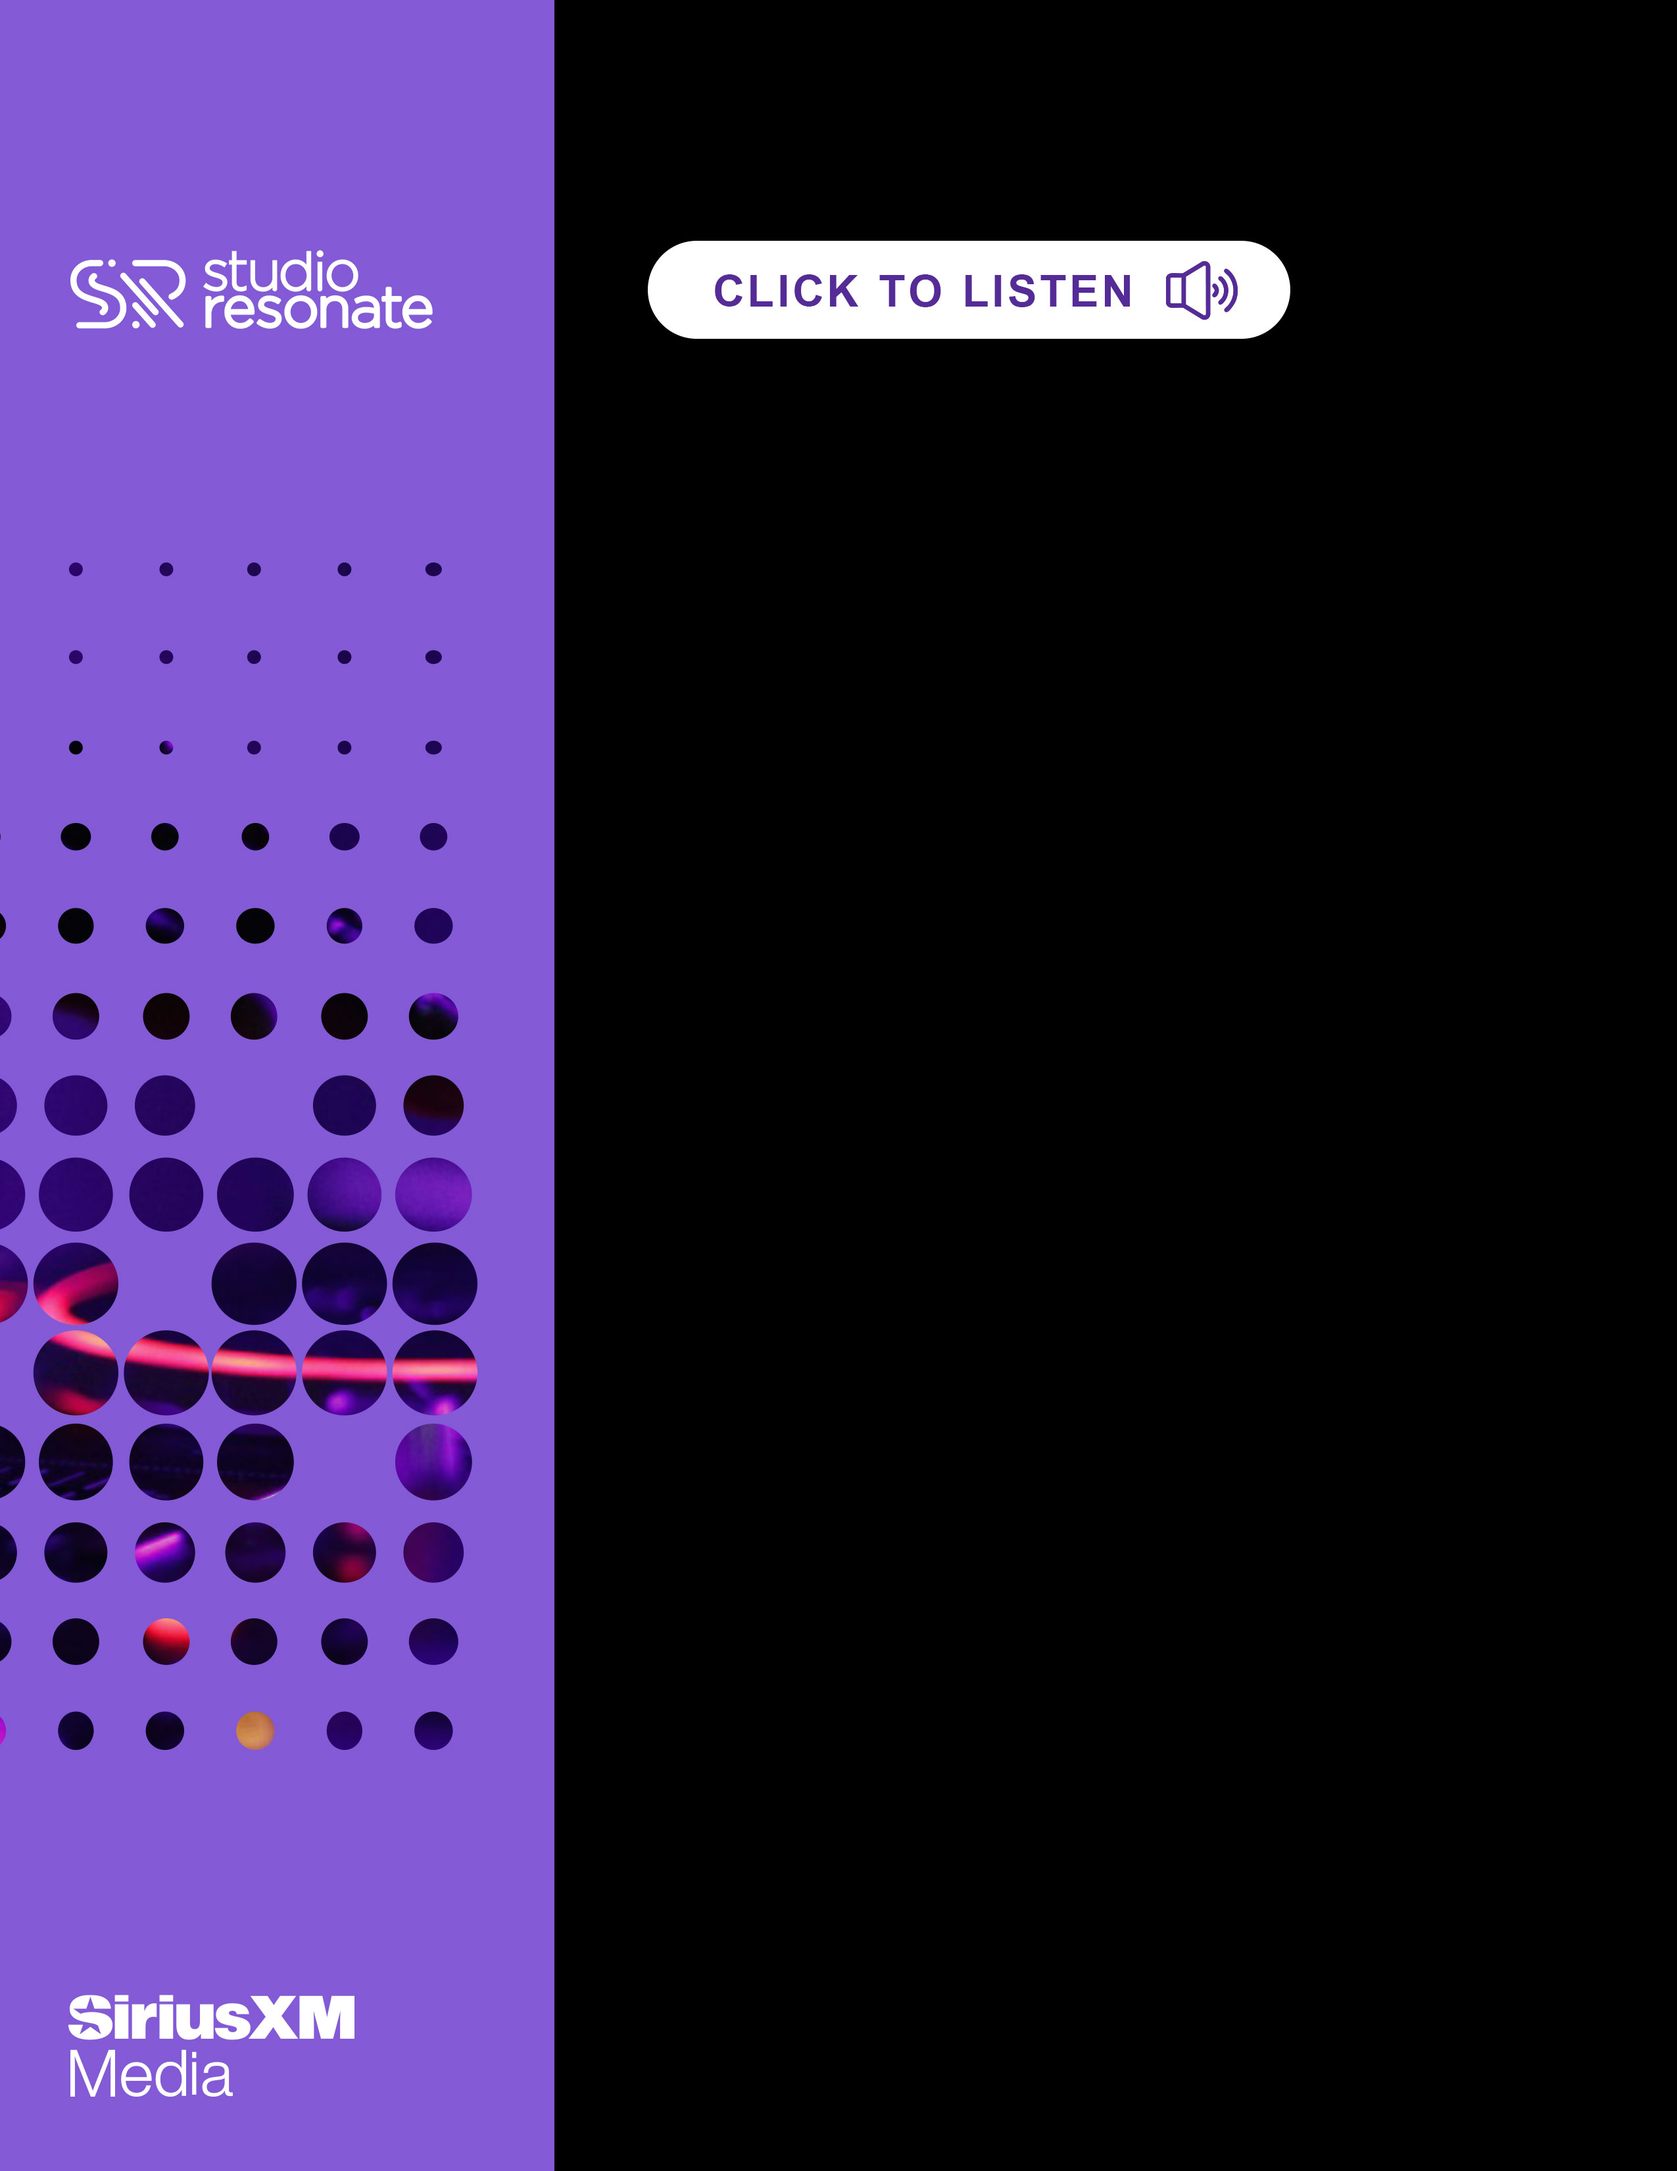
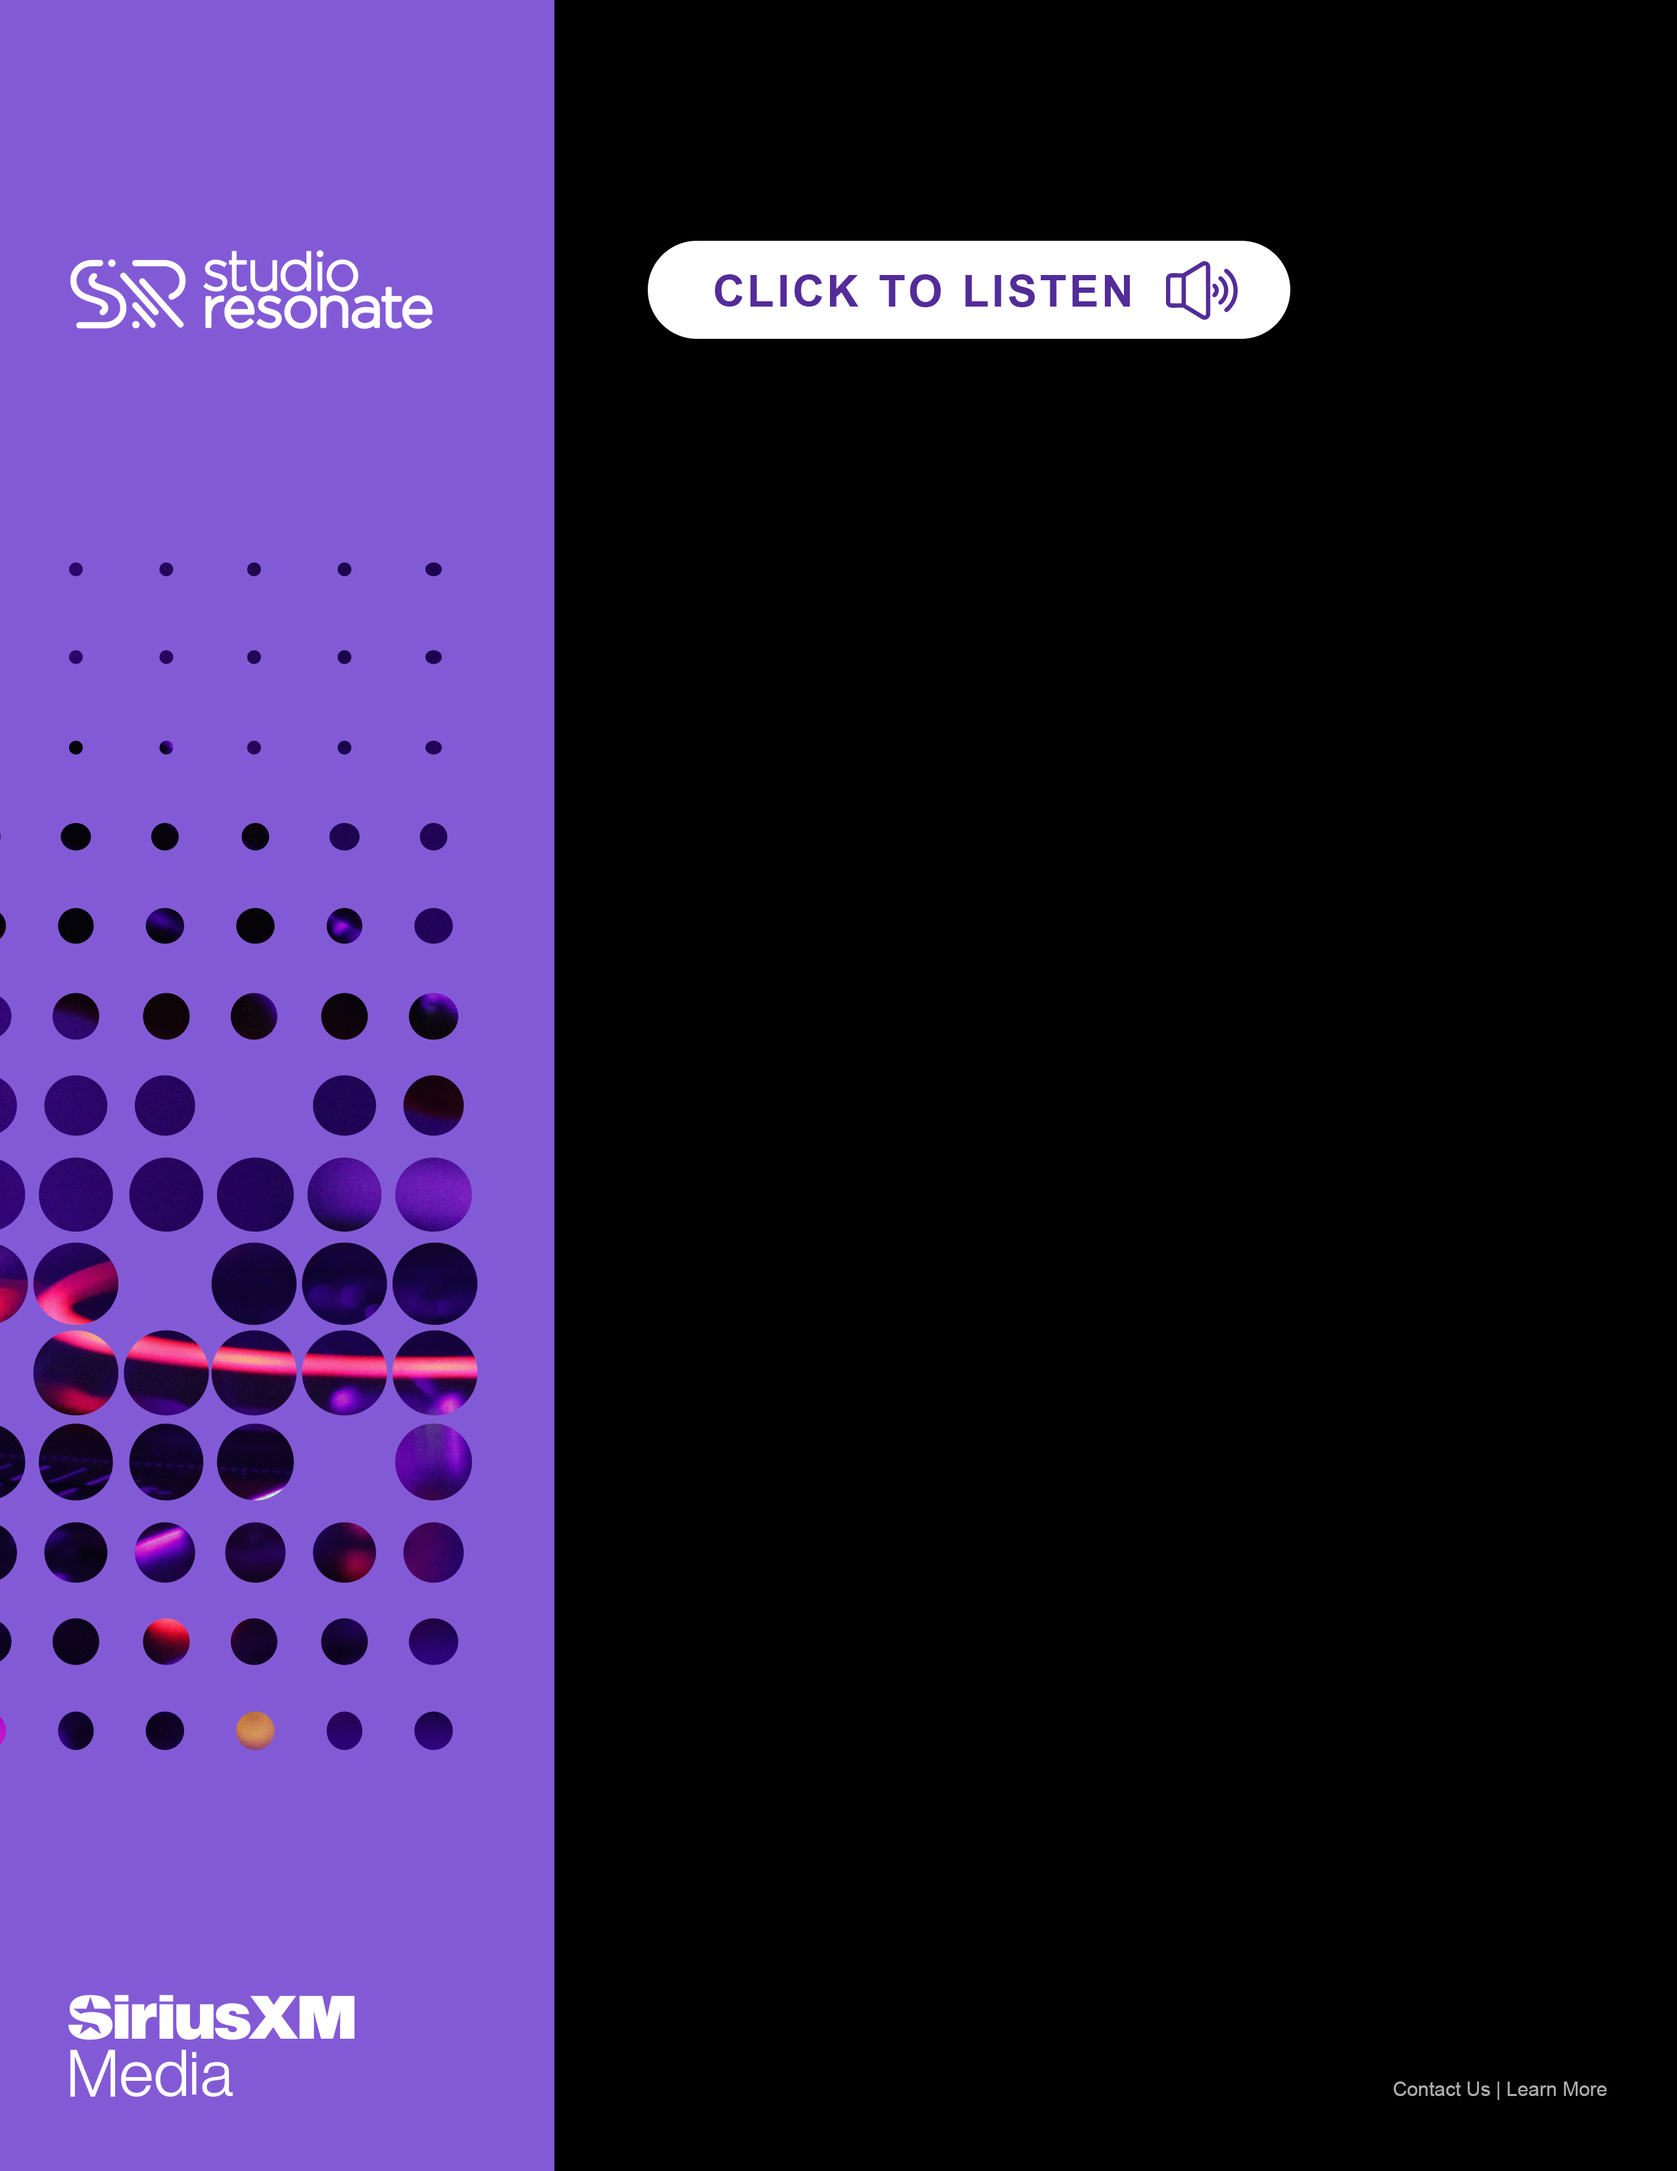
second try at fixing special character error

diff --git a/app.js b/app.js
@@ -32,7 +32,7 @@ app.get('/', (req, res) => {
 
 
 app.post('/generate-pdf', (req, res) => {
-    const { audio, password, name, pname, email, version, date, message, cdname, producer, writer, acmanager } = req.body;
+    const { audio, password, name, pname, email, version, date, message, cdname, producer, writer, acmanager, language } = req.body;
 
     // Create a PDF document
     const doc = new PDFDocument({
@@ -71,6 +71,8 @@ app.post('/generate-pdf', (req, res) => {
     });
 	
 	
+	//let messageSafe = message.replace(/ /g, '\u00A0').replace(/\r\n/g, '\n');
+	let messageSafe = message.replace(/\r\n|\r|\u2028|\u2029|\u000B/g, '\n');
     //doc.link(935, 320, 1080, 250, `${audio}`);
 	
     doc.moveDown(15.7);
@@ -109,7 +111,7 @@ app.post('/generate-pdf', (req, res) => {
 		.text(`Additional Information:`)
 		.fillColor('white')
 		.font('Helvetica')
-		.text(`${message}`)
+		.text(`${messageSafe}`)
 		.moveDown()
 		.font('Helvetica-Bold')
 		.fillColor('#aeaeae')
@@ -138,6 +140,13 @@ app.post('/generate-pdf', (req, res) => {
 		.fillColor('white')
 		.font('Helvetica')
 		.text(`${acmanager}`)
+		.moveDown()
+		.fillColor('#aeaeae')
+		.font('Helvetica-Bold')
+		.text(`Language:`)
+		.fillColor('white')
+		.font('Helvetica')
+		.text(`${language}`)
 		.moveDown();
 	
 	
@@ -151,6 +160,10 @@ app.post('/generate-pdf', (req, res) => {
 		   .font('Helvetica')
 		   .text(`PASSWORD: ${password}`, 1100, 550);
 	}
+	doc.link(80, 355, 630, 180, `https://www.siriusxmmedia.com/studio-resonate`);
+	doc.link(80, 3020, 630, 180, `https://www.siriusxmmedia.com/`);
+	doc.link(2093, 3153, 185, 45, `mailto:SR-Questions@pandora.com`);
+	doc.link(2280, 3153, 185, 45, `https://studioresonate.com/`);
 	
     //doc.moveDown();
     //doc.text(`Email: ${email}`);
